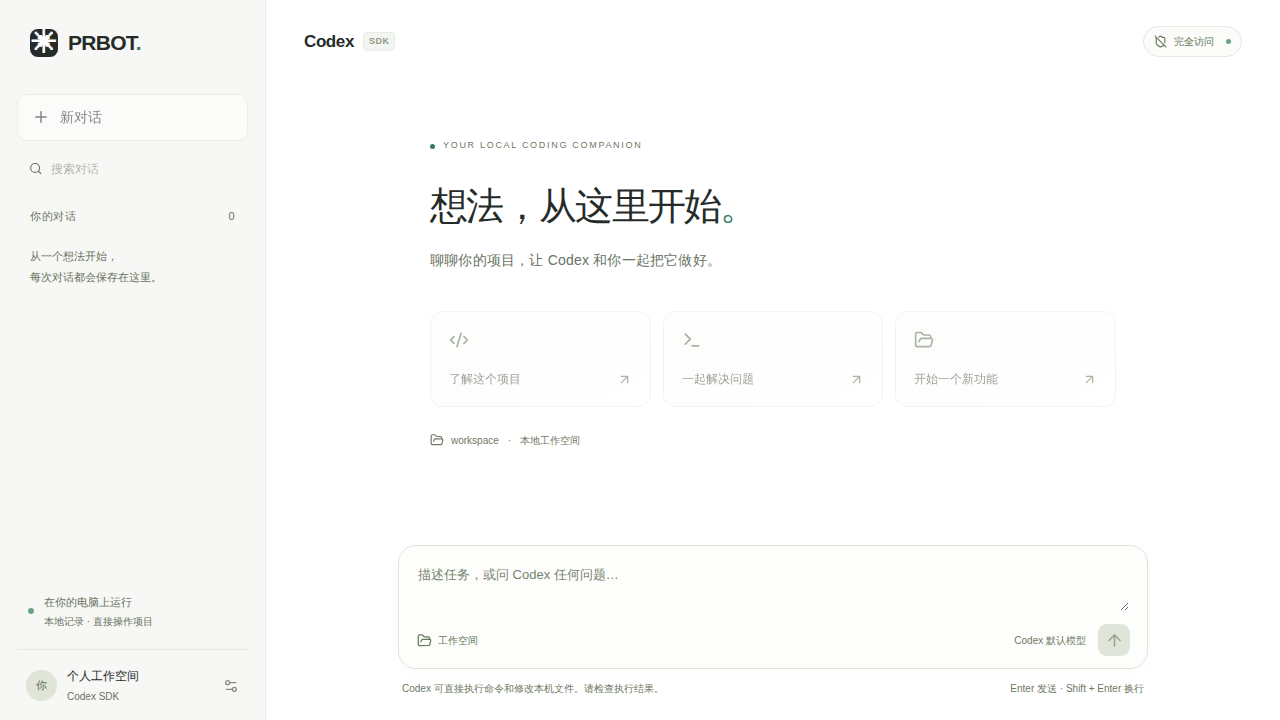
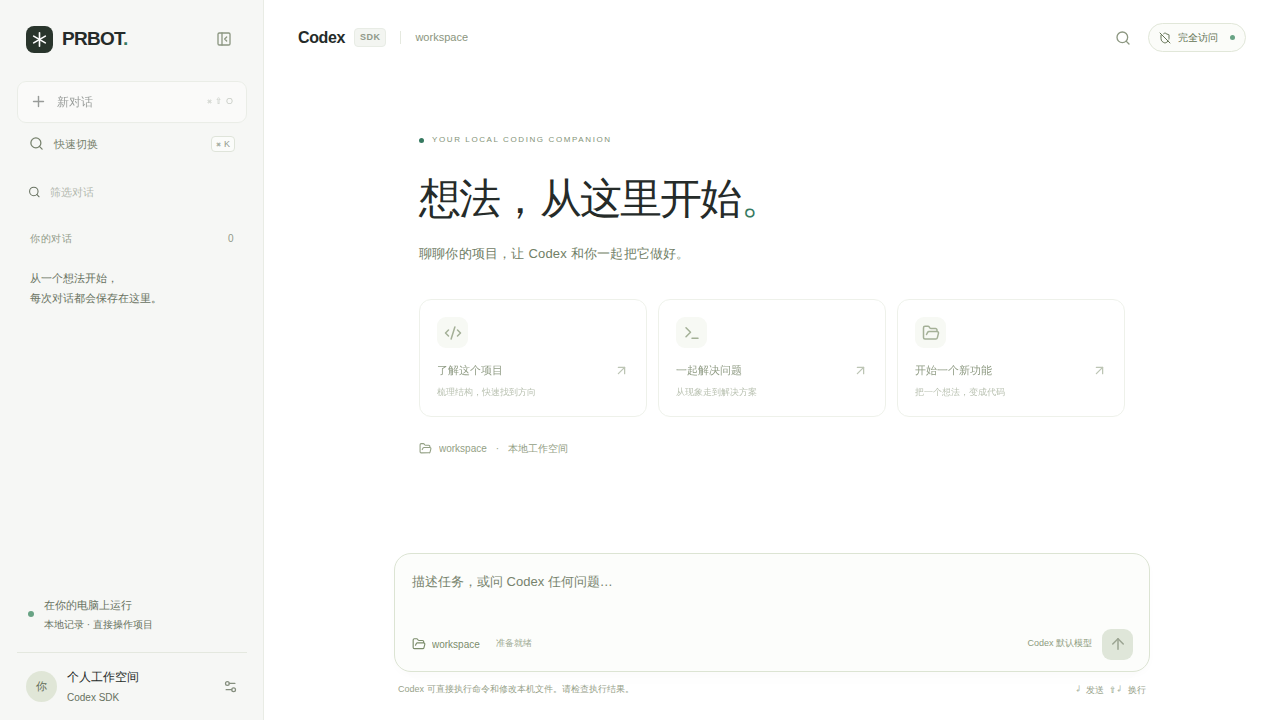
docs: capture polished interactions and passing remote regression evidence

diff --git a/docs/design.md b/docs/design.md
@@ -59,3 +59,11 @@
 浏览器测试通过真实 Codex SDK 调用可控的 CLI 测试替身，校验全访问参数、线程恢复、输出协议，并在 CI 临时目录真正写入文件。它验证本程序的接线和界面，不验证真实模型服务。不会借用上级 .env 的 Infisical 密钥，也不把凭据提交到仓库。
 
 验收证据：功能提交 `9dde9ba` 的 [远端运行 40274299202](https://github.com/C0verSnow/PRBOT1/actions/runs/40274299202) 全部通过：32 个单元测试、4 个浏览器测试、类型检查、生产构建、全依赖审计（0 个已知漏洞）。已查看远端生成的桌面首页和手机聊天截图，文件保留在 [screenshots](screenshots/)；运行时主机路径的打包追踪提示和测试配置模块提示已消除。后续提交仅补充文档与这些原始截图。
+
+## 追加的精致交互优化
+
+用户随后要求继续检索 GitHub 并高级化优化交互，选定克制精致的 ChatGPT / Linear 方向。候选比较、许可、维护者响应和已知问题见 [交互研究](interaction-research.md)。直接使用 Motion 14.6.0；欢迎卡片和消息只在首次出现时做短时反馈，流式文本保持稳定 ID；采用原生 dialog 管理快捷搜索与确认操作。新增侧栏收起记忆、按对话保存浏览器草稿、生成时预写下一条、输入自动增高、明确执行状态和阅读优先的浮动回到底部。运行时订阅 matchMedia，系统减少动态效果改变时立即调整 Motion。
+
+远端回归发现并修复两类边界：React 初次聚焦早于 showModal，改为打开后明确聚焦并在卸载时恢复触发点；侧栏收窄加 inert 之外，加入收起后的 visibility:hidden。随后又确认 search 输入框会先处理 Esc，故由弹窗显式关闭，输入法选字期间不拦截。保留原失败断言，没有放宽验证。
+
+功能提交 `980e1ef` 的 [远端运行 40275963030](https://github.com/C0verSnow/PRBOT1/actions/runs/40275963030) 全部成功：34 个单元测试、14 个桌面/手机浏览器测试、类型检查、生产构建、依赖审计（0 个已知漏洞）。已查看最终桌面首页与手机快捷面板，并更新原始截图。没有执行本地编译、开发服务或项目测试；仍未调用真实付费模型。后续提交仅补充文档与原始截图。

diff --git a/tasklist.md b/tasklist.md
@@ -5,6 +5,7 @@
 - [1792991568] 完成 issue #1：用最新稳定版 TypeScript、React、Tailwind、Next.js 和官方 Codex JS SDK 做简洁聊天程序，跑通远端测试、更新文档、提 PR 并关闭 issue。
 
 ## 做完：
+- [1792993741] 追加交互优化已全部完成：功能提交 980e1ef 的远端运行 40275963030 成功通过 34 个单元测试、14 个桌面/手机浏览器测试、类型检查、生产构建和依赖审计（0 个已知漏洞）。已查看并更新桌面、手机及快捷面板原始截图；README、设计和开源交互研究文档已补最新证据。
 - [1792993530] 远端确认焦点和侧栏修复通过，14 个浏览器场景已有 12 个成功；剩余两个是桌面/手机同一 Esc 关闭断言。给弹窗明确添加 Esc 关闭处理，避免 search 输入框先消费按键，并保留输入法选字取消行为；继续同一回归复验。
 - [1792993369] 远端已复现并留下截图/trace：快捷切换输入框在原生 dialog 打开前尝试自动聚焦；侧栏视觉上已收起且 inert，但裁剪后的历史仍被可见性检查识别。按同一失败断言修正为 showModal 后明确聚焦、收起结束后 visibility:hidden；其余草稿、减少动态效果和滚动保位测试已通过。
 - [1792993261] 高级交互提交 5a489d7 的远端 CI 已通过依赖安装、审计、类型检查、34 个单元测试和生产构建，正在执行 14 个桌面/手机浏览器场景；未进行本地编译或测试。
@@ -24,4 +25,4 @@
 - [1792991568] 按仓库约定，不进行本地构建、编译或会触发编译的测试；验证交给远端 CI。
 
 ## 在做：
-- [1792992725] 在同一个 feature 分支和 PR #2 上继续交互优化，后台研究开源方案；上一版最终远端运行 40274501580 已全部通过。
+- [1792993741] 无待处理功能，追加优化已同步到同一 PR #2，等待审阅。最后只提交文档与原始截图；全程未进行本地编译验证。
